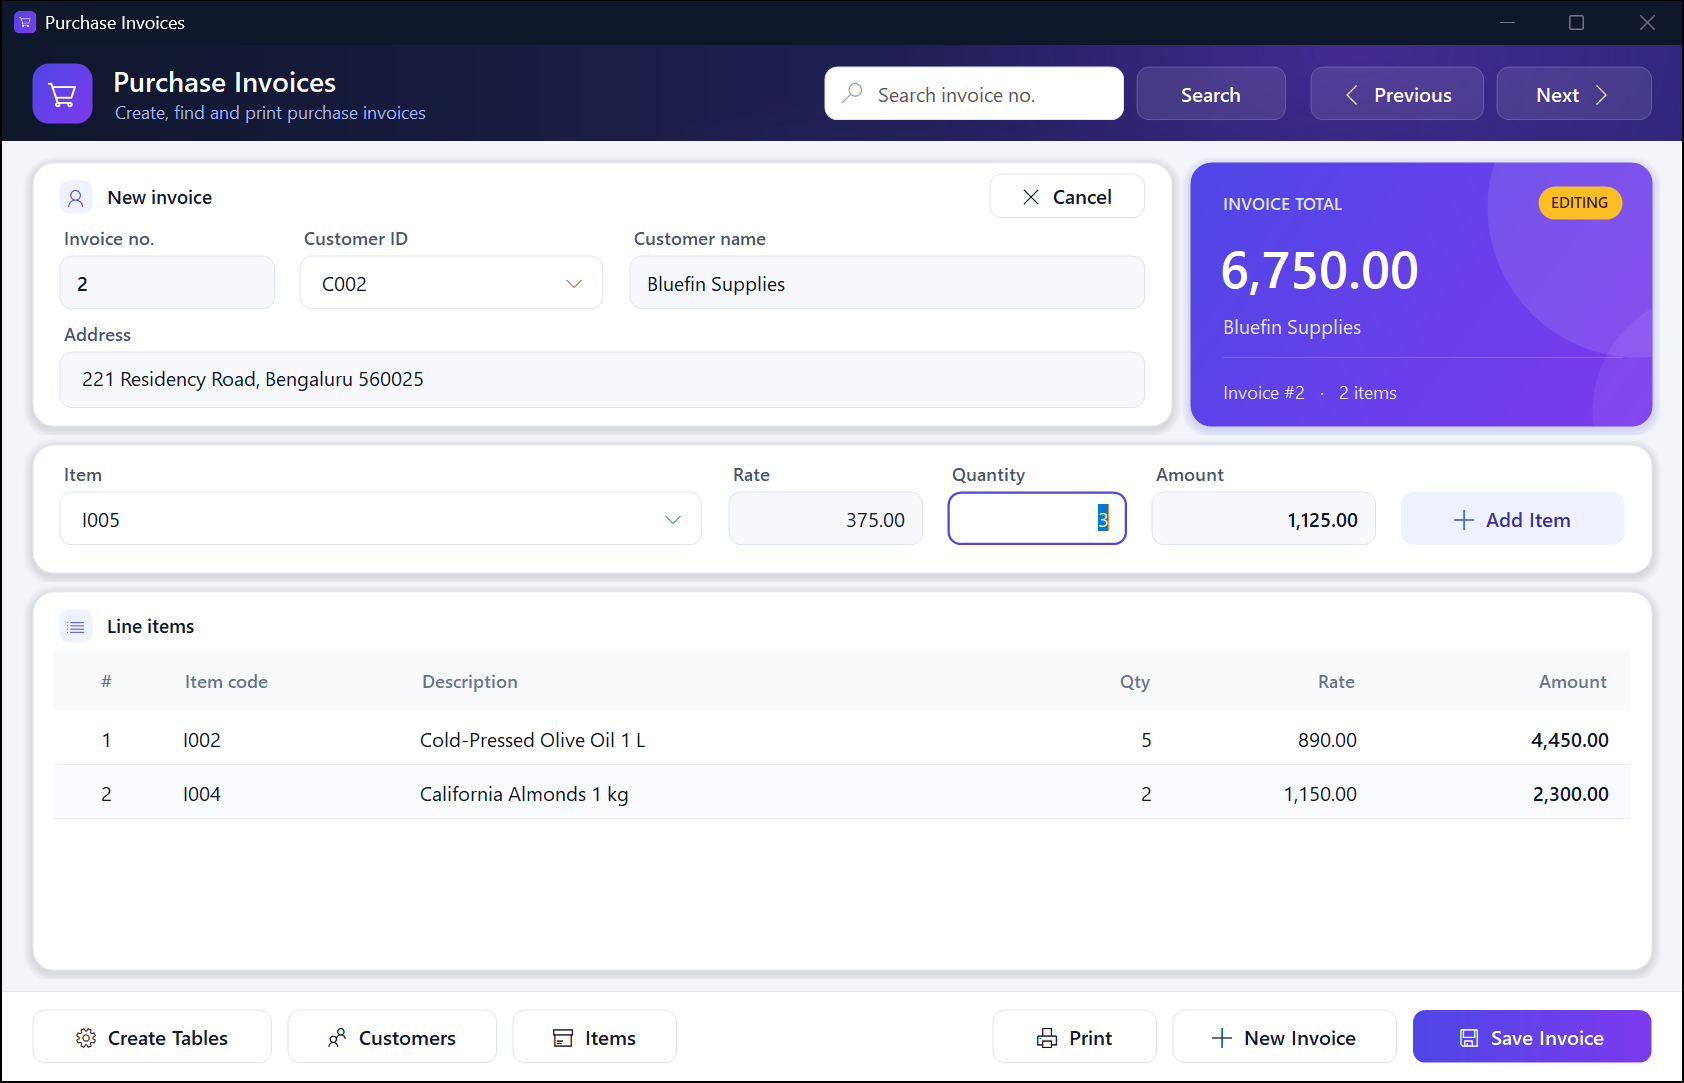
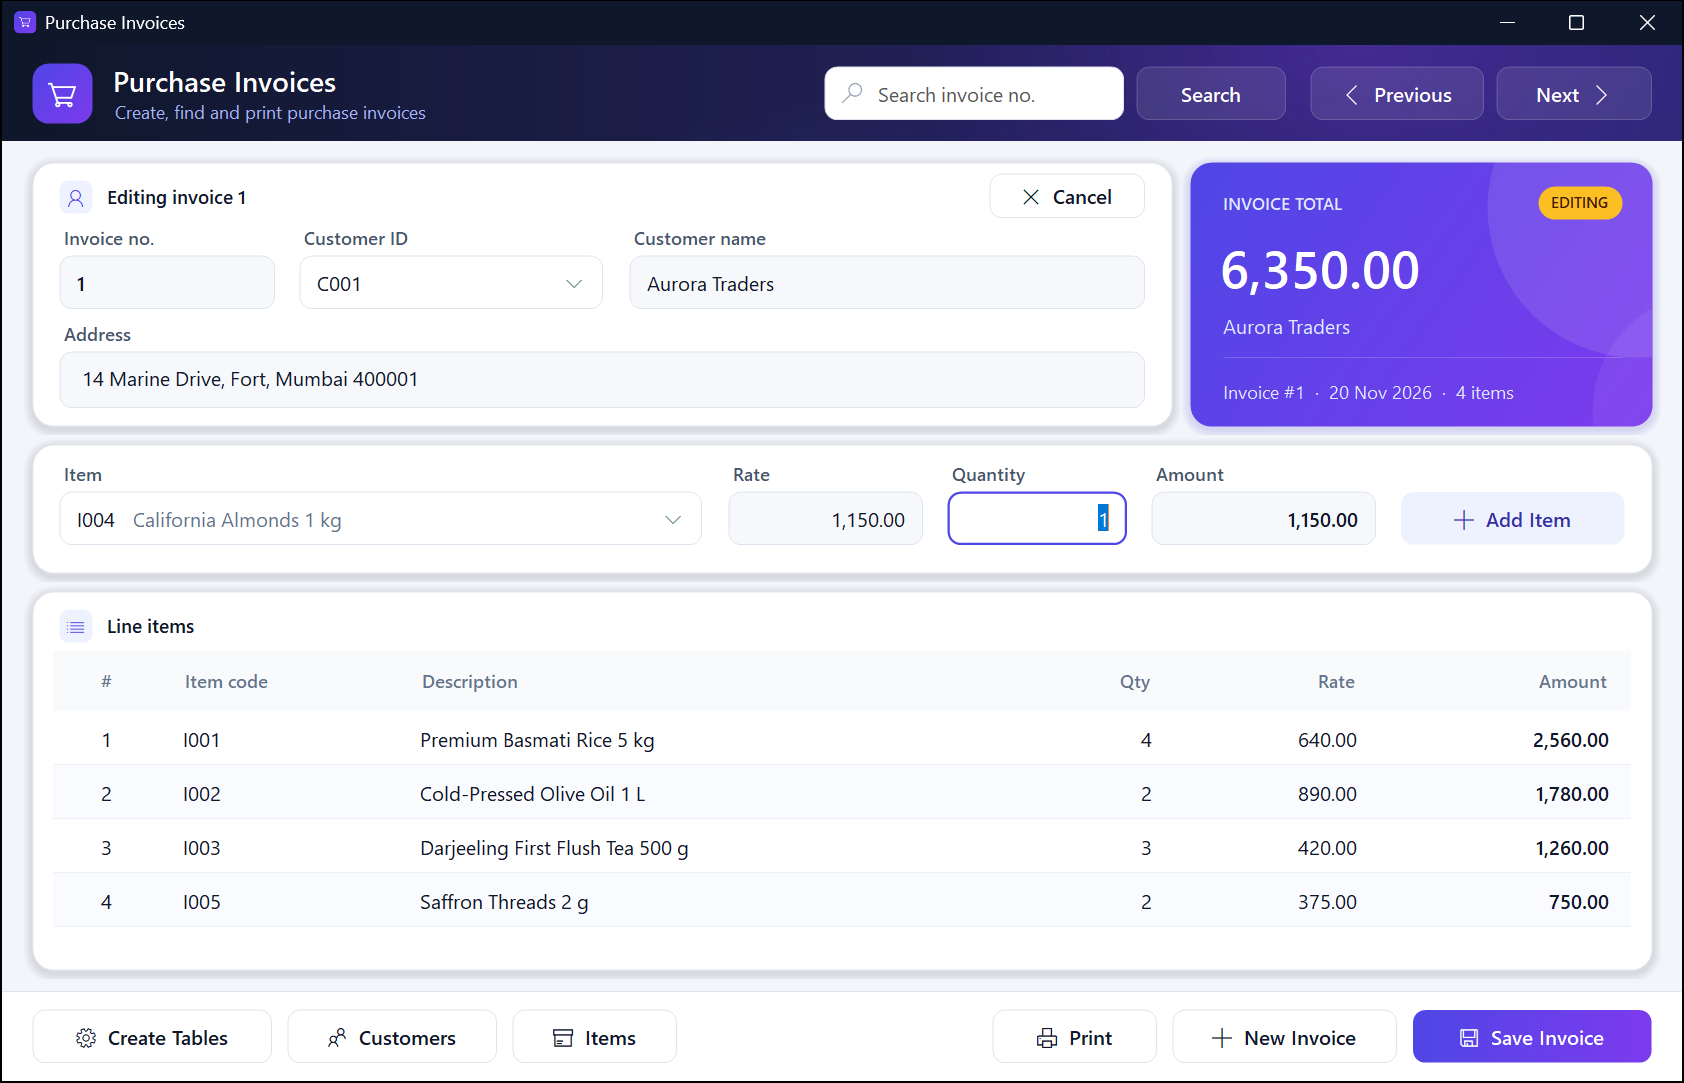
Show names in drop-downs, the invoice date, and add shortcuts
- The customer and item drop-down lists now show each code with its
  name, and the chosen item shows its description too. The items stay
  plain codes, so the lookup logic is unchanged.
- The summary card footer shows the invoice date, or "Not saved yet"
  for a new invoice.
- Keyboard shortcuts: Enter in Quantity adds the line and returns to
  the item box, Enter in the search box searches, Ctrl+S/N/P/E/F, and
  Alt+Left/Right for Previous/Next. Button tooltips list them.
- Item rates are shown with thousands separators, like amounts.

diff --git a/PurchaseInvoices/InvoiceForm.cs b/PurchaseInvoices/InvoiceForm.cs
@@ -18,7 +18,7 @@ namespace PurchaseInvoices
     public partial class InvoiceForm : Form
     {
         SqlConnection con; //--- first step...
-        private DateTime? invoiceDate;
+        private DateTime? invoiceDateValue;
         private int? currentTransId;
         private int? editingTransId;
         private string editSnapshot = string.Empty;
@@ -27,6 +27,64 @@ namespace PurchaseInvoices
         {
             InitializeComponent();
             Theme.StyleWindow(this);
+            comboCustId.DropDownWidth = Theme.S(380);
+        }
+
+        private DateTime? InvoiceDate
+        {
+            get { return invoiceDateValue; }
+            set
+            {
+                invoiceDateValue = value;
+                summaryCard.DateText = value?.ToString("dd MMM yyyy", CultureInfo.CurrentCulture) ?? string.Empty;
+            }
+        }
+
+        protected override bool ProcessCmdKey(ref Message msg, Keys keyData)
+        {
+            switch (keyData)
+            {
+                case Keys.Enter:
+                    if (ActiveControl == txtItemQty)
+                    {
+                        int before = dgv_sales.Rows.Count;
+                        btnAdd.PerformClick();
+                        if (dgv_sales.Rows.Count > before)
+                        {
+                            combo_Itemcode.Focus();
+                        }
+                        return true;
+                    }
+                    if (ActiveControl == txtSearch)
+                    {
+                        button1.PerformClick();
+                        return true;
+                    }
+                    break;
+                case Keys.Control | Keys.S:
+                    btnSave.PerformClick();
+                    return true;
+                case Keys.Control | Keys.N:
+                    btnNew.PerformClick();
+                    return true;
+                case Keys.Control | Keys.P:
+                    btnPrint.PerformClick();
+                    return true;
+                case Keys.Control | Keys.E:
+                    btnEditInvoice.PerformClick();
+                    return true;
+                case Keys.Control | Keys.F:
+                    txtSearch.Focus();
+                    txtSearch.SelectAll();
+                    return true;
+                case Keys.Alt | Keys.Left:
+                    btnPrevious.PerformClick();
+                    return true;
+                case Keys.Alt | Keys.Right:
+                    btnNext.PerformClick();
+                    return true;
+            }
+            return base.ProcessCmdKey(ref msg, keyData);
         }
 
 
@@ -254,7 +312,7 @@ namespace PurchaseInvoices
                             string TRANS_NO = sdrHeader["TRANS_NO"].ToString();
                             string CUST_ID = sdrHeader["CUST_ID"].ToString();
                             string TOTAL_AMOUNT = sdrHeader["TOTAL_AMOUNT"].ToString();
-                            invoiceDate = sdrHeader["TRANS_DATE"] as DateTime?;
+                            InvoiceDate = sdrHeader["TRANS_DATE"] as DateTime?;
                             currentTransId = Convert.ToInt32(sdrHeader["TRANS_ID"]);
                             editingTransId = null;
 
@@ -312,7 +370,7 @@ namespace PurchaseInvoices
             object result = cmd.ExecuteScalar();
             txtTransNo.Text = result.ToString();
             con.Close();
-            invoiceDate = null;
+            InvoiceDate = null;
             comboCustId.SelectedIndex = -1;
             txtcustname.Text = string.Empty;
             txtcustaddresss.Text = string.Empty;
@@ -370,7 +428,7 @@ namespace PurchaseInvoices
                                 }
                                 lastTransId = Convert.ToInt32(sdr["TRANS_ID"]);
                                 savedTransNo = sdr["TRANS_NO"].ToString();
-                                invoiceDate = sdr["TRANS_DATE"] as DateTime?;
+                                InvoiceDate = sdr["TRANS_DATE"] as DateTime?;
                             }
                         }
                         using (SqlCommand clearCmd = new SqlCommand("delete from PURCH_DETAIL where TRANS_ID = @TRANS_ID", con, transaction))
@@ -394,7 +452,7 @@ namespace PurchaseInvoices
                                 sdr.Read();
                                 lastTransId = Convert.ToInt32(sdr["TRANS_ID"]);
                                 savedTransNo = sdr["TRANS_NO"].ToString();
-                                invoiceDate = sdr["TRANS_DATE"] as DateTime?;
+                                InvoiceDate = sdr["TRANS_DATE"] as DateTime?;
                             }
                         }
                     }
@@ -579,7 +637,7 @@ namespace PurchaseInvoices
         {
             currentTransId = null;
             editingTransId = null;
-            invoiceDate = null;
+            InvoiceDate = null;
             txtTransNo.Text = string.Empty;
             comboCustId.SelectedIndex = -1;
             txtcustname.Text = string.Empty;
@@ -628,12 +686,15 @@ namespace PurchaseInvoices
             SqlCommand cmd = new SqlCommand(qry, con);
             con.Open();
             SqlDataReader dr = cmd.ExecuteReader();
+            Dictionary<string, string> names = new Dictionary<string, string>(StringComparer.OrdinalIgnoreCase);
             while (dr.Read())
             {
                 string CUSTID = dr.GetString(0);
                 comboCustId.Items.Add(CUSTID);
+                names[CUSTID] = dr["CUST_NAME"].ToString();
             }
             con.Close();
+            comboCustId.Descriptions = names;
         }
         private void comboCustId_SelectedIndexChanged(object sender, EventArgs e)
         {
@@ -660,9 +721,12 @@ namespace PurchaseInvoices
             SqlCommand cmd = new SqlCommand(qry, con);
             con.Open();
             SqlDataReader sdr = cmd.ExecuteReader();
+            Dictionary<string, string> descriptions = new Dictionary<string, string>(StringComparer.OrdinalIgnoreCase);
+            combo_Itemcode.Descriptions = descriptions;
             while (sdr.Read())
             {
                 string itmcode = sdr.GetString(0);
+                descriptions[itmcode] = sdr["ITEM_DESCRIPTION"].ToString();
                 combo_Itemcode.Items.Add(itmcode);
             }
             con.Close();
@@ -692,7 +756,8 @@ namespace PurchaseInvoices
             sda.Fill(data);
             if (data.Rows.Count > 0)
             {
-                txtItemRate.Text = data.Rows[0]["ITEM_COST"].ToString();
+                object cost = data.Rows[0]["ITEM_COST"];
+                txtItemRate.Text = cost == DBNull.Value ? string.Empty : Convert.ToDecimal(cost).ToString("N2", CultureInfo.CurrentCulture);
             }
             con.Close();
             txtItemQty.Text = string.Empty;
@@ -964,7 +1029,7 @@ namespace PurchaseInvoices
             InvoicePrintData data = new InvoicePrintData
             {
                 InvoiceNo = txtTransNo.Text.Trim(),
-                Date = invoiceDate ?? DateTime.Now,
+                Date = InvoiceDate ?? DateTime.Now,
                 IsDraft = draft,
                 CustomerId = comboCustId.SelectedItem?.ToString() ?? string.Empty,
                 CustomerName = txtcustname.Text.Trim(),

diff --git a/PurchaseInvoices/ModernUI.cs b/PurchaseInvoices/ModernUI.cs
@@ -1,4 +1,5 @@
 using System;
+using System.Collections.Generic;
 using System.ComponentModel;
 using System.Drawing;
 using System.Drawing.Drawing2D;
@@ -569,6 +570,47 @@ namespace PurchaseInvoices
         private const int WM_PAINT = 0x000F;
         private bool hovering;
         private string placeholder = "Select…";
+        private IDictionary<string, string> descriptions;
+        private bool showDescriptionInFace = true;
+
+        [Browsable(false), DesignerSerializationVisibility(DesignerSerializationVisibility.Hidden)]
+        public IDictionary<string, string> Descriptions
+        {
+            get { return descriptions; }
+            set { descriptions = value; Invalidate(); }
+        }
+
+        [DefaultValue(true)]
+        public bool ShowDescriptionInFace
+        {
+            get { return showDescriptionInFace; }
+            set { showDescriptionInFace = value; Invalidate(); }
+        }
+
+        private string DescriptionOf(string text)
+        {
+            string description;
+            return descriptions != null && text != null && descriptions.TryGetValue(text, out description) ? description : null;
+        }
+
+        private void DrawItemText(Graphics g, string text, Rectangle bounds, Color main, Color secondary, bool withDescription)
+        {
+            const TextFormatFlags flags = TextFormatFlags.VerticalCenter | TextFormatFlags.Left | TextFormatFlags.NoPrefix | TextFormatFlags.SingleLine | TextFormatFlags.NoPadding;
+            string description = withDescription ? DescriptionOf(text) : null;
+            if (string.IsNullOrEmpty(description))
+            {
+                TextRenderer.DrawText(g, text, Font, bounds, main, flags | TextFormatFlags.EndEllipsis);
+                return;
+            }
+            int codeWidth = TextRenderer.MeasureText(g, text, Font, Size.Empty, flags).Width;
+            TextRenderer.DrawText(g, text, Font, new Rectangle(bounds.X, bounds.Y, Math.Min(codeWidth + 2, bounds.Width), bounds.Height), main, flags);
+            int gap = Theme.S(12);
+            Rectangle rest = new Rectangle(bounds.X + codeWidth + gap, bounds.Y, bounds.Width - codeWidth - gap, bounds.Height);
+            if (rest.Width > Theme.S(24))
+            {
+                TextRenderer.DrawText(g, description, Font, rest, secondary, flags | TextFormatFlags.EndEllipsis);
+            }
+        }
 
         public ModernComboBox()
         {
@@ -622,8 +664,8 @@ namespace PurchaseInvoices
                 e.Graphics.FillRectangle(brush, e.Bounds);
             }
             Rectangle textBounds = new Rectangle(e.Bounds.X + Theme.S(12), e.Bounds.Y, e.Bounds.Width - Theme.S(16), e.Bounds.Height);
-            TextRenderer.DrawText(e.Graphics, GetItemText(Items[e.Index]), Font, textBounds, selected ? Theme.AccentText : Theme.Text,
-                TextFormatFlags.VerticalCenter | TextFormatFlags.Left | TextFormatFlags.EndEllipsis | TextFormatFlags.NoPrefix);
+            DrawItemText(e.Graphics, GetItemText(Items[e.Index]), textBounds, selected ? Theme.AccentText : Theme.Text,
+                selected ? Color.FromArgb(99, 102, 241) : Theme.TextMuted, true);
         }
 
         protected override void WndProc(ref Message m)
@@ -671,8 +713,15 @@ namespace PurchaseInvoices
                 string text = hasValue ? GetItemText(SelectedItem) : readOnly ? string.Empty : placeholder;
                 int arrowWidth = readOnly ? 0 : Theme.S(30);
                 Rectangle textBounds = new Rectangle(Theme.S(12), 0, bounds.Width - Theme.S(12) - arrowWidth - Theme.S(4), bounds.Height);
-                TextRenderer.DrawText(bg, text, Font, textBounds, hasValue ? Theme.Text : Theme.TextFaint,
-                    TextFormatFlags.VerticalCenter | TextFormatFlags.Left | TextFormatFlags.EndEllipsis | TextFormatFlags.NoPrefix | TextFormatFlags.SingleLine);
+                if (hasValue)
+                {
+                    DrawItemText(bg, text, textBounds, Theme.Text, Theme.TextMuted, showDescriptionInFace);
+                }
+                else
+                {
+                    TextRenderer.DrawText(bg, text, Font, textBounds, Theme.TextFaint,
+                        TextFormatFlags.VerticalCenter | TextFormatFlags.Left | TextFormatFlags.EndEllipsis | TextFormatFlags.NoPrefix | TextFormatFlags.SingleLine | TextFormatFlags.NoPadding);
+                }
 
                 if (!readOnly)
                 {
@@ -858,6 +907,14 @@ namespace PurchaseInvoices
         private TextBox customerSource;
         private DataGridView itemsSource;
         private Control modeSource;
+        private string dateText = string.Empty;
+
+        [Browsable(false), DesignerSerializationVisibility(DesignerSerializationVisibility.Hidden)]
+        public string DateText
+        {
+            get { return dateText; }
+            set { dateText = value ?? string.Empty; Invalidate(); }
+        }
 
         public SummaryCard()
         {
@@ -1035,7 +1092,7 @@ namespace PurchaseInvoices
             int items = itemsSource?.Rows.Count ?? 0;
             string invoice = invoiceSource?.Text.Trim() ?? string.Empty;
             string footer = invoice.Length > 0
-                ? $"Invoice #{invoice}   ·   {items} {(items == 1 ? "item" : "items")}"
+                ? $"Invoice #{invoice}  ·  {(dateText.Length > 0 ? dateText : "Not saved yet")}  ·  {items} {(items == 1 ? "item" : "items")}"
                 : "No invoice loaded";
             using (Font footerFont = new Font("Segoe UI", 9f))
             {

diff --git a/PurchaseInvoices/InvoiceForm.Designer.cs b/PurchaseInvoices/InvoiceForm.Designer.cs
@@ -32,6 +32,8 @@ namespace PurchaseInvoices
             System.Windows.Forms.DataGridViewCellStyle dataGridViewCellStyle2 = new System.Windows.Forms.DataGridViewCellStyle();
             System.Windows.Forms.DataGridViewCellStyle dataGridViewCellStyle3 = new System.Windows.Forms.DataGridViewCellStyle();
             System.Windows.Forms.DataGridViewCellStyle dataGridViewCellStyle4 = new System.Windows.Forms.DataGridViewCellStyle();
+            this.components = new System.ComponentModel.Container();
+            this.toolTip = new System.Windows.Forms.ToolTip(this.components);
             this.headerPanel = new PurchaseInvoices.HeaderPanel();
             this.hostSearch = new PurchaseInvoices.FieldHost();
             this.txtSearch = new System.Windows.Forms.TextBox();
@@ -631,6 +633,7 @@ namespace PurchaseInvoices
             this.comboCustId.Location = new System.Drawing.Point(184, 68);
             this.comboCustId.Name = "comboCustId";
             this.comboCustId.Placeholder = "Select customer";
+            this.comboCustId.ShowDescriptionInFace = false;
             this.comboCustId.Size = new System.Drawing.Size(204, 36);
             this.comboCustId.TabIndex = 1;
             this.comboCustId.SelectedIndexChanged += new System.EventHandler(this.comboCustId_SelectedIndexChanged);
@@ -725,6 +728,19 @@ namespace PurchaseInvoices
             this.Name = "InvoiceForm";
             this.StartPosition = System.Windows.Forms.FormStartPosition.Manual;
             this.Text = "Purchase Invoices";
+            this.toolTip.SetToolTip(this.btnSave, "Save this invoice (Ctrl+S)");
+            this.toolTip.SetToolTip(this.btnNew, "Start a new invoice (Ctrl+N)");
+            this.toolTip.SetToolTip(this.btnPrint, "Preview and print this invoice (Ctrl+P)");
+            this.toolTip.SetToolTip(this.btnEditInvoice, "Edit this invoice (Ctrl+E)");
+            this.toolTip.SetToolTip(this.btnDeleteInvoice, "Delete this invoice");
+            this.toolTip.SetToolTip(this.btnCancelEdit, "Discard the changes and stop editing");
+            this.toolTip.SetToolTip(this.btnPrevious, "Older invoice (Alt+Left)");
+            this.toolTip.SetToolTip(this.btnNext, "Newer invoice (Alt+Right)");
+            this.toolTip.SetToolTip(this.button1, "Find an invoice by number (Enter in the search box, Ctrl+F to jump there)");
+            this.toolTip.SetToolTip(this.btnAdd, "Add this item to the invoice (Enter in Quantity)");
+            this.toolTip.SetToolTip(this.btnCustomers, "Add, edit and remove customers");
+            this.toolTip.SetToolTip(this.btnItems, "Add, edit and remove items and prices");
+            this.toolTip.SetToolTip(this.btnCreateTables, "Create the database tables if any are missing");
             this.FormClosing += new System.Windows.Forms.FormClosingEventHandler(this.InvoiceForm_FormClosing);
             this.Load += new System.EventHandler(this.InvoiceForm_Load);
             this.headerPanel.ResumeLayout(false);
@@ -758,6 +774,7 @@ namespace PurchaseInvoices
 
         #endregion
 
+        private System.Windows.Forms.ToolTip toolTip;
         private PurchaseInvoices.HeaderPanel headerPanel;
         private PurchaseInvoices.FieldHost hostSearch;
         private System.Windows.Forms.TextBox txtSearch;
